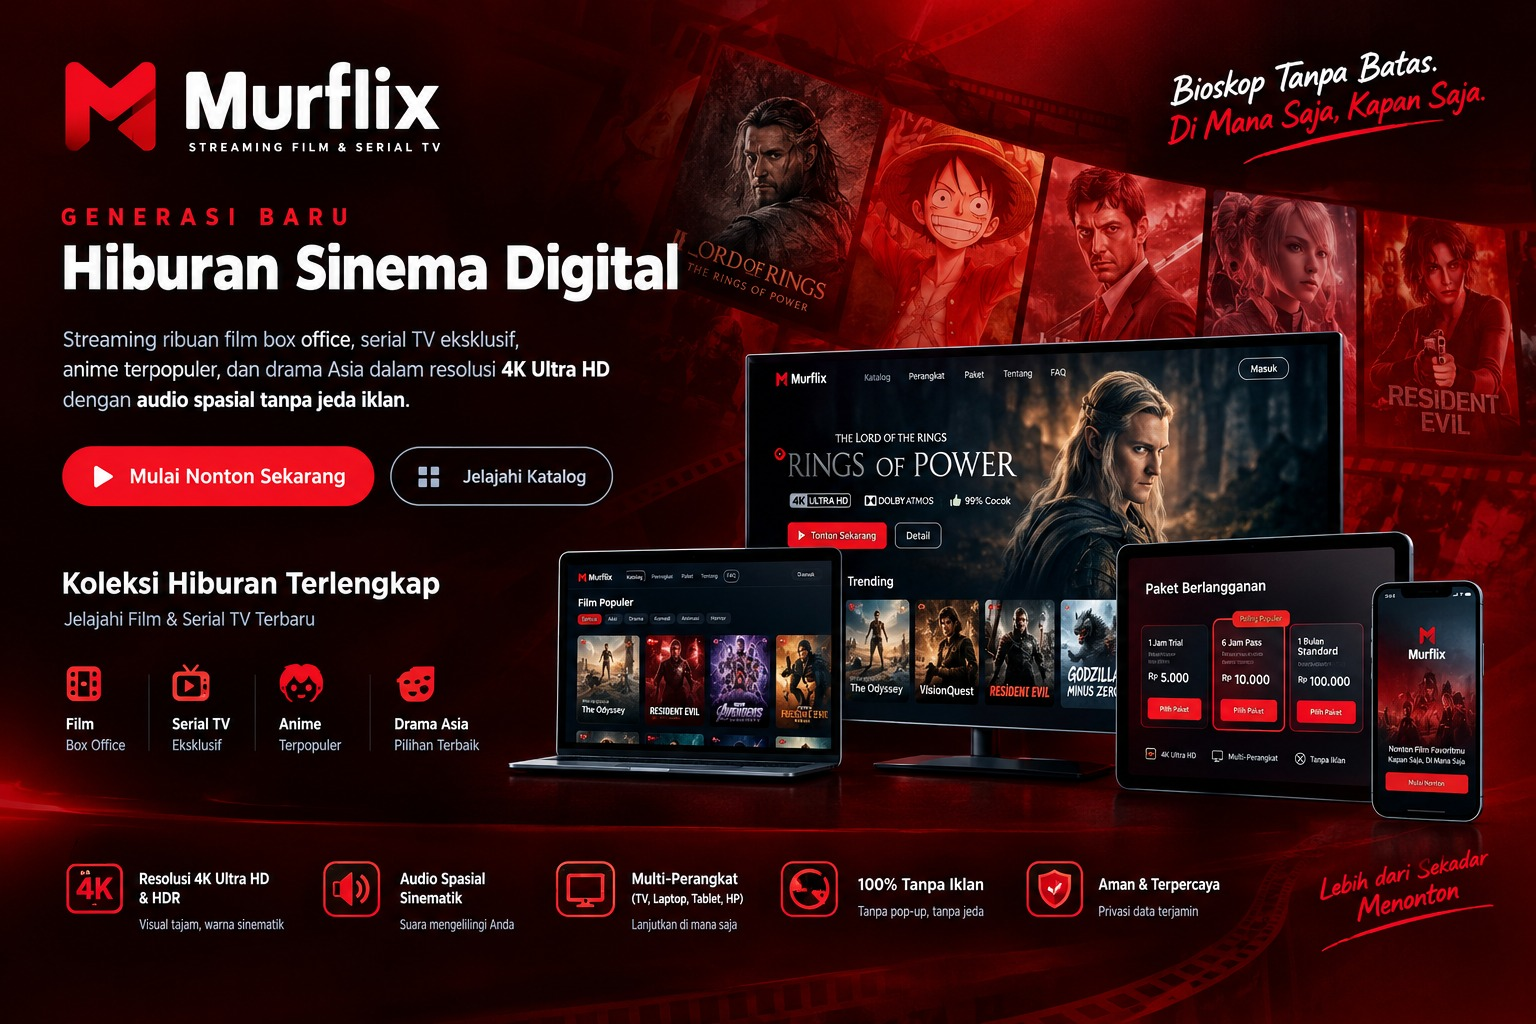
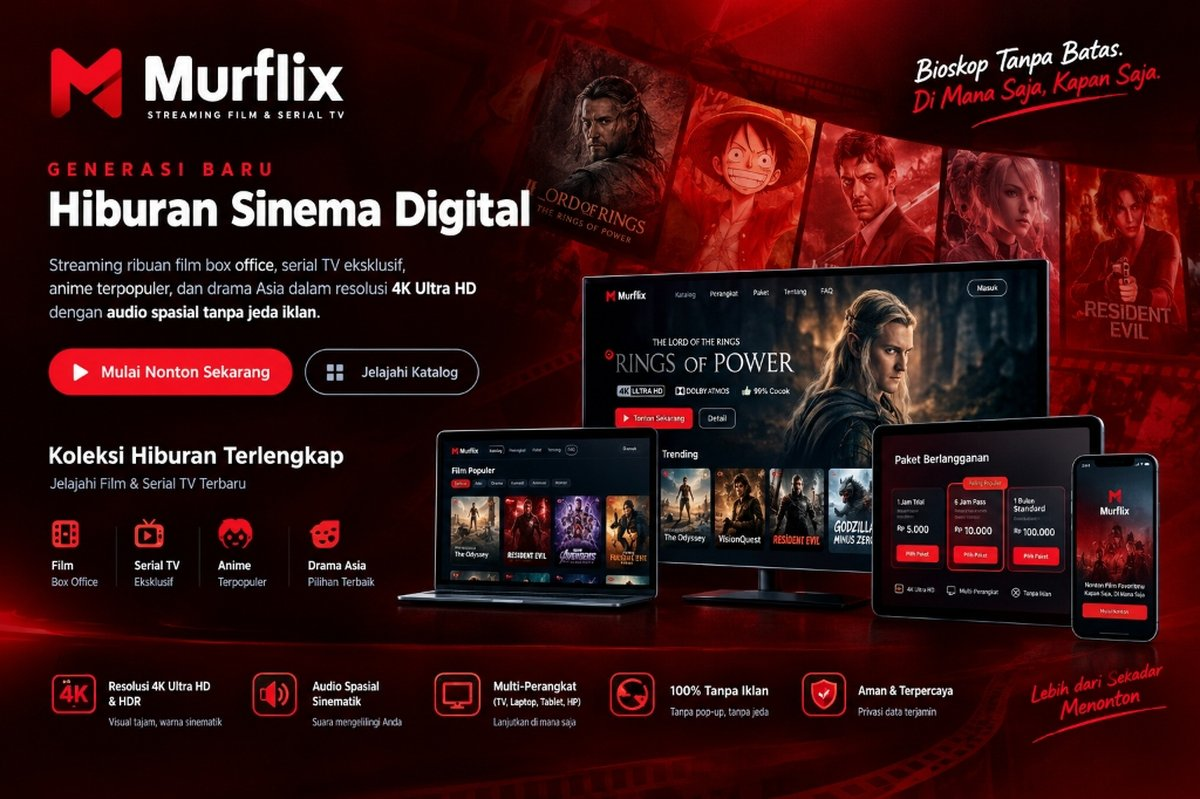
fix: optimize social share og image under 300KB and add og-preview.jpg with cache buster

diff --git a/index.html b/index.html
@@ -20,29 +20,36 @@
     <meta name="author" content="Murflix" />
     <meta name="theme-color" content="#141414" />
     <link rel="canonical" href="https://murflix.based.cc.cd/" />
-    <link rel="image_src" href="https://murflix.based.cc.cd/bg.png" />
+    <link rel="image_src" href="https://murflix.based.cc.cd/og-preview.jpg?v=5" />
+    <meta itemprop="image" content="https://murflix.based.cc.cd/og-preview.jpg?v=5" />
 
-    <!-- Open Graph / Facebook / WhatsApp -->
+    <!-- Open Graph / Facebook / WhatsApp / Telegram -->
     <meta property="og:type" content="website" />
     <meta property="og:url" content="https://murflix.based.cc.cd/" />
     <meta property="og:site_name" content="Murflix" />
     <meta property="og:title" content="Murflix - Nonton Streaming Film &amp; Serial TV Kualitas 4K Sub Indo" />
     <meta property="og:description" content="Streaming ribuan film box office, serial TV eksklusif, anime terpopuler, dan drama Asia dalam resolusi 4K Ultra HD tanpa jeda iklan di Murflix. Nikmati pengalaman bioskop digital modern di semua perangkat." />
-    <meta property="og:image" content="https://murflix.based.cc.cd/bg.png" />
-    <meta property="og:image:secure_url" content="https://murflix.based.cc.cd/bg.png" />
-    <meta property="og:image:type" content="image/png" />
-    <meta property="og:image:width" content="1536" />
-    <meta property="og:image:height" content="1024" />
-    <meta property="og:image:alt" content="Murflix - Nonton Streaming Film &amp; Serial TV Kualitas 4K Sub Indo" />
+    <meta property="og:image" content="https://murflix.based.cc.cd/og-preview.jpg?v=5" />
+    <meta property="og:image:secure_url" content="https://murflix.based.cc.cd/og-preview.jpg?v=5" />
+    <meta property="og:image:type" content="image/jpeg" />
+    <meta property="og:image:width" content="1200" />
+    <meta property="og:image:height" content="800" />
+    <meta property="og:image:alt" content="Murflix - Streaming Film &amp; Serial TV Kualitas 4K Ultra HD" />
     <meta property="og:locale" content="id_ID" />
+
+    <!-- PNG Fallback for crawlers preferring PNG -->
+    <meta property="og:image" content="https://murflix.based.cc.cd/bg.png?v=5" />
+    <meta property="og:image:type" content="image/png" />
+    <meta property="og:image:width" content="1200" />
+    <meta property="og:image:height" content="800" />
 
     <!-- Twitter / X -->
     <meta name="twitter:card" content="summary_large_image" />
     <meta name="twitter:url" content="https://murflix.based.cc.cd/" />
     <meta name="twitter:title" content="Murflix - Nonton Streaming Film &amp; Serial TV Kualitas 4K Sub Indo" />
     <meta name="twitter:description" content="Streaming ribuan film box office, serial TV eksklusif, anime terpopuler, dan drama Asia dalam resolusi 4K Ultra HD tanpa jeda iklan di Murflix. Nikmati pengalaman bioskop digital modern di semua perangkat." />
-    <meta name="twitter:image" content="https://murflix.based.cc.cd/bg.png" />
-    <meta name="twitter:image:alt" content="Murflix - Nonton Streaming Film &amp; Serial TV Kualitas 4K Sub Indo" />
+    <meta name="twitter:image" content="https://murflix.based.cc.cd/og-preview.jpg?v=5" />
+    <meta name="twitter:image:alt" content="Murflix - Streaming Film &amp; Serial TV Kualitas 4K Ultra HD" />
 
     <!-- JSON-LD Structured Data for Search Engines -->
     <script type="application/ld+json">

diff --git a/src/types/notification.ts b/src/types/notification.ts
@@ -11,3 +11,4 @@ export interface NotificationItem {
   poster_url?: string;
   badge?: string;
 }
+

diff --git a/src/hooks/useNotifications.ts b/src/hooks/useNotifications.ts
@@ -171,3 +171,4 @@ export function useNotifications() {
     refresh: loadNotifications,
   };
 }
+

diff --git a/src/components/layout/NotificationDropdown.tsx b/src/components/layout/NotificationDropdown.tsx
@@ -308,3 +308,4 @@ export const NotificationDropdown: React.FC = () => {
     </div>
   );
 };
+
